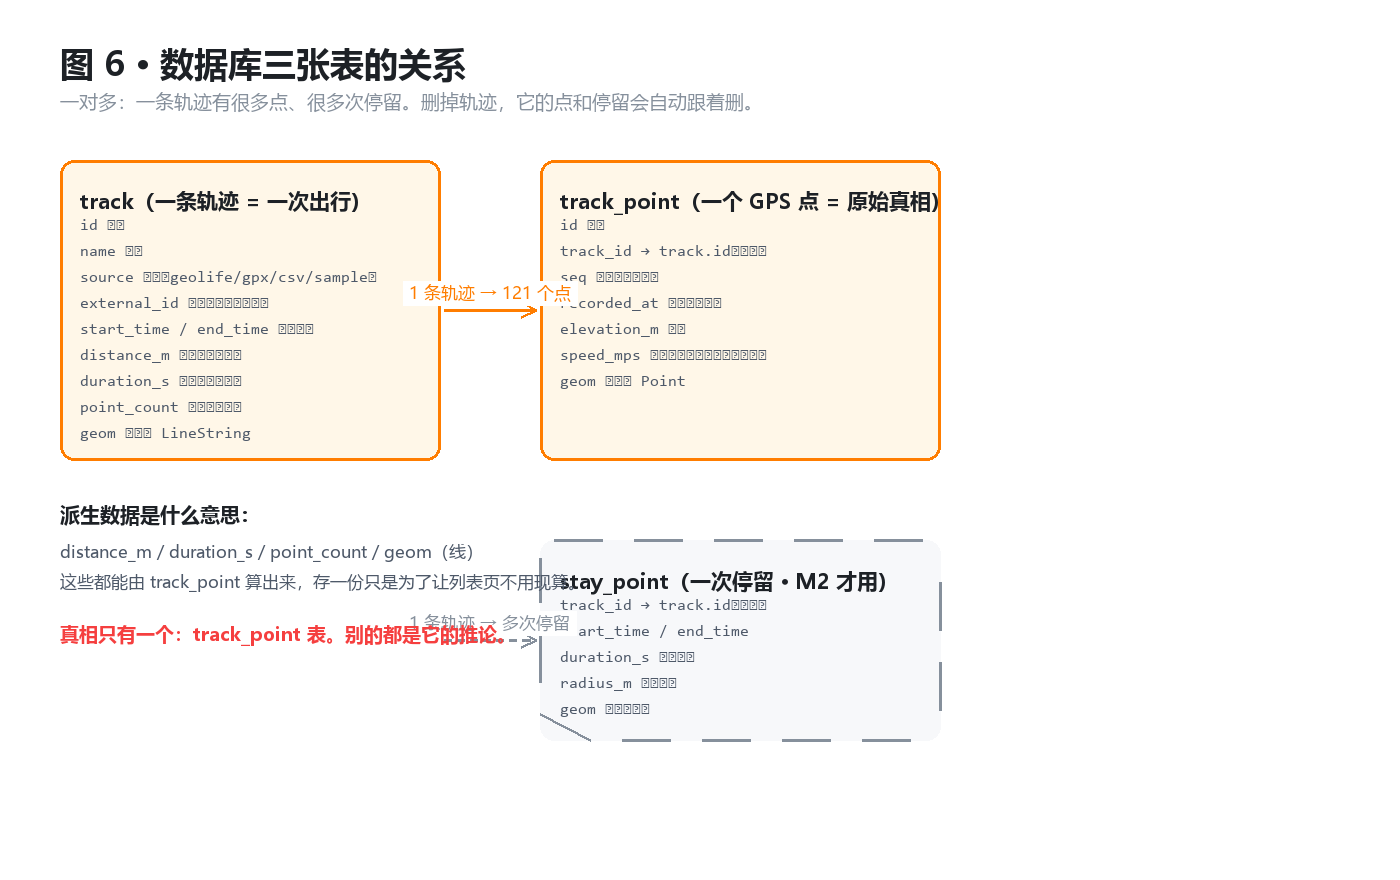
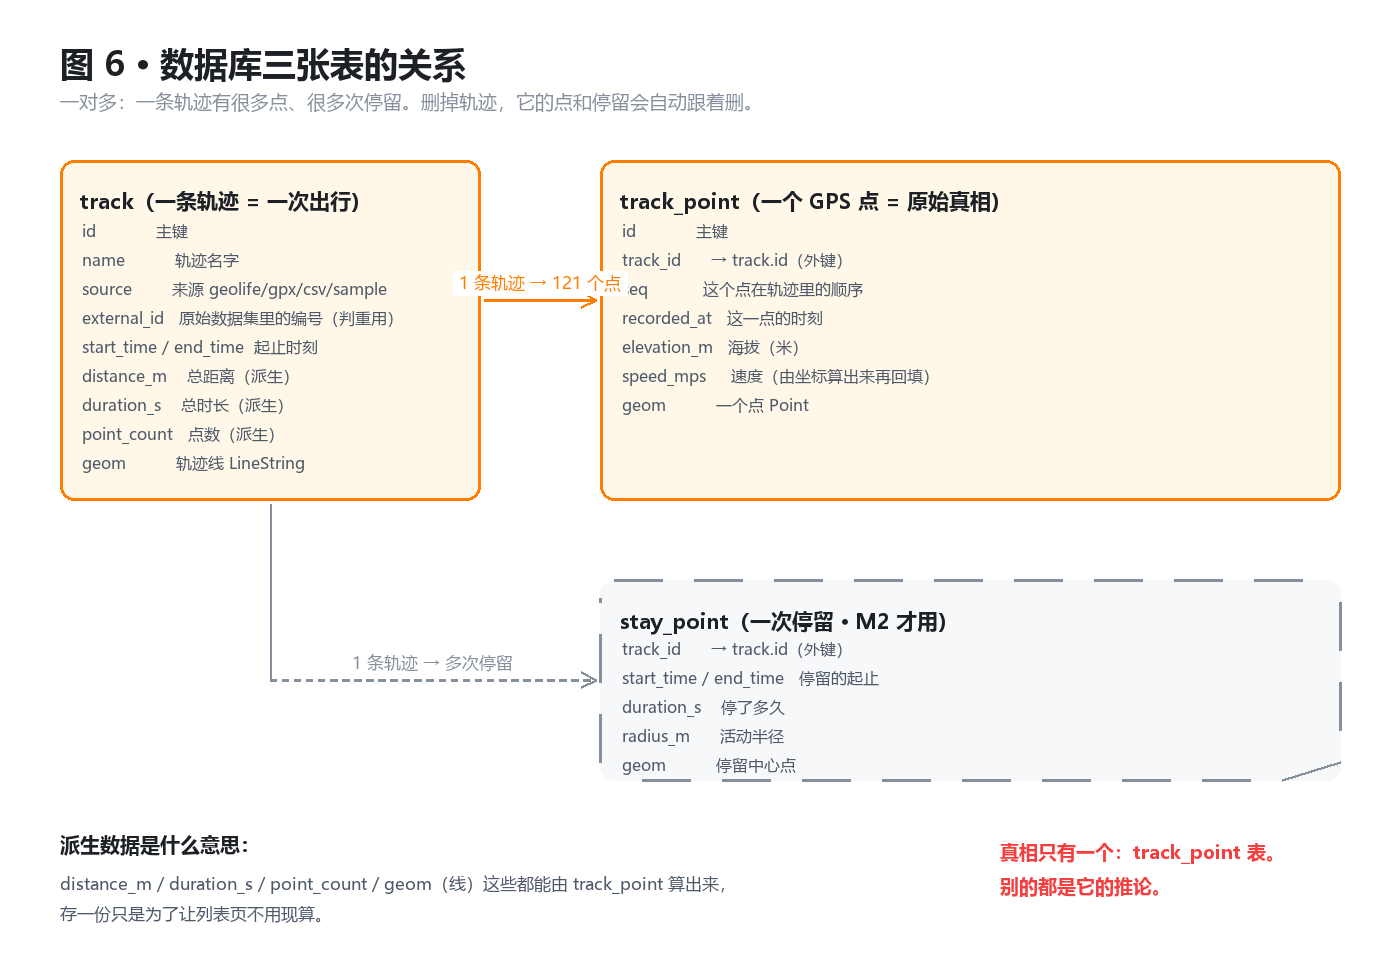
fix(figs): 修复图 6 中文变豆腐块、框重叠、说明文字被箭头穿过
- Consolas 没有中文字形：混中文的行强制用等宽字体会画成方块，text() 里加判断
- 虚线框先画边后填充，导致虚线被底色盖掉，改成先填充再描边
- 图 5：('单行文字') 少写逗号变成字符串，for 会逐字符画成竖排，box() 里加防御

diff --git a/docs/learning/figs/make_figs.py b/docs/learning/figs/make_figs.py
@@ -5,10 +5,11 @@
 （见 global-knowledge：officecli 在 DSH 沙箱写不进 docx）。
 Pillow 直接画成图片再用 python-docx 插进去最稳。
 
-输出：.tmp/figs/fig*.png
+输出：docs/learning/figs/fig*.png
 """
 import math
 import os
+import re
 
 from PIL import Image, ImageDraw, ImageFont
 
@@ -58,7 +59,7 @@ class Fig:
         if isinstance(subs, str):
             subs = (subs,)
         if dash:
-            self._dashed_round_rect(x, y, w, h, radius, border)
+            # 先填底色再画虚线边，否则填充会把先画的虚线盖掉
             self.d.rounded_rectangle([x, y, x + w, y + h], radius=radius, fill=fill)
             self._dashed_round_rect(x, y, w, h, radius, border)
         else:
@@ -81,6 +82,9 @@ class Fig:
         return (x, y, w, h)
 
     def text(self, x, y, s, size=18, bold=False, color=INK, anchor="la", mono=False):
+        # Consolas 没有中文字形，混了中文还强行用等宽字体会画成豆腐块（□□）
+        if mono and re.search(r"[\u4e00-\u9fff]", s):
+            mono = False
         self.d.text((x, y), s, font=f(size, bold, mono), fill=color, anchor=anchor)
 
     def _dashed_round_rect(self, x, y, w, h, r, color, width=3, seg=12, gap=8):
@@ -343,38 +347,55 @@ def fig5():
 
 # --------------------------------------------------------- 图 6 数据库表
 def fig6():
-    g = Fig(880)
+    g = Fig(980)
     g.title("图 6 · 数据库三张表的关系",
             "一对多：一条轨迹有很多点、很多次停留。删掉轨迹，它的点和停留会自动跟着删。")
 
-    g.box(60, 160, 380, 300, "track（一条轨迹 = 一次出行）", (), border=ORANGE, fill=ORANGE_F, ts=21, align="left")
-    for i, s in enumerate(["id 主键", "name 名字", "source 来源（geolife/gpx/csv/sample）",
-                            "external_id 原始编号（判重用）", "start_time / end_time 起止时刻",
-                            "distance_m 总距离（派生）", "duration_s 总时长（派生）",
-                            "point_count 点数（派生）", "geom 轨迹线 LineString"]):
-        g.text(80, 218 + i * 26, s, size=16, color=(0x4E, 0x59, 0x69), mono=True)
+    # 左列：track   右列：track_point / stay_point
+    g.box(60, 160, 420, 340, "track（一条轨迹 = 一次出行）", (),
+          border=ORANGE, fill=ORANGE_F, ts=21, align="left")
+    for i, s in enumerate(["id            主键",
+                            "name          轨迹名字",
+                            "source        来源 geolife/gpx/csv/sample",
+                            "external_id   原始数据集里的编号（判重用）",
+                            "start_time / end_time  起止时刻",
+                            "distance_m    总距离（派生）",
+                            "duration_s    总时长（派生）",
+                            "point_count   点数（派生）",
+                            "geom          轨迹线 LineString"]):
+        g.text(82, 220 + i * 29, s, size=16, color=(0x4E, 0x59, 0x69))
 
-    g.box(540, 160, 400, 300, "track_point（一个 GPS 点 = 原始真相）", (), border=ORANGE, fill=ORANGE_F, ts=21, align="left")
-    for i, s in enumerate(["id 主键", "track_id → track.id（外键）", "seq 在轨迹里的顺序",
-                            "recorded_at 这一点的时刻", "elevation_m 海拔",
-                            "speed_mps 速度（由坐标算出来再回填）",
-                            "geom 一个点 Point"]):
-        g.text(560, 218 + i * 26, s, size=16, color=(0x4E, 0x59, 0x69), mono=True)
+    g.box(600, 160, 740, 340, "track_point（一个 GPS 点 = 原始真相）", (),
+          border=ORANGE, fill=ORANGE_F, ts=21, align="left")
+    for i, s in enumerate(["id            主键",
+                            "track_id      → track.id（外键）",
+                            "seq           这个点在轨迹里的顺序",
+                            "recorded_at   这一点的时刻",
+                            "elevation_m   海拔（米）",
+                            "speed_mps     速度（由坐标算出来再回填）",
+                            "geom          一个点 Point"]):
+        g.text(622, 220 + i * 29, s, size=16, color=(0x4E, 0x59, 0x69))
 
-    g.box(540, 540, 400, 200, "stay_point（一次停留 · M2 才用）", (), border=GRAY, fill=(0xF7, 0xF8, 0xFA), ts=21, align="left", dash=True)
-    for i, s in enumerate(["track_id → track.id（外键）", "start_time / end_time",
-                            "duration_s 停了多久", "radius_m 活动半径", "geom 停留中心点"]):
-        g.text(560, 598 + i * 26, s, size=16, color=(0x4E, 0x59, 0x69), mono=True)
+    g.box(600, 580, 740, 200, "stay_point（一次停留 · M2 才用）", (),
+          border=GRAY, fill=(0xF7, 0xF8, 0xFA), ts=21, align="left", dash=True)
+    for i, s in enumerate(["track_id      → track.id（外键）",
+                            "start_time / end_time   停留的起止",
+                            "duration_s    停了多久",
+                            "radius_m      活动半径",
+                            "geom          停留中心点"]):
+        g.text(622, 638 + i * 29, s, size=16, color=(0x4E, 0x59, 0x69))
 
-    g.arrow(444, 310, 536, 310, "1 条轨迹 → 121 个点", color=ORANGE, label_dy=-18)
-    g.arrow(444, 640, 536, 640, "1 条轨迹 → 多次停留", color=GRAY, label_dy=-18, dashed=True)
+    g.arrow(484, 300, 596, 300, "1 条轨迹 → 121 个点", color=ORANGE, label_dy=-18)
+    # 用折线连到 stay_point；左侧 y=504~680 这段是空的，走这里不压任何文字
+    g.d.line([270, 504, 270, 680], fill=GRAY, width=2)
+    g.arrow(270, 680, 596, 680, "1 条轨迹 → 多次停留", color=GRAY, label_dy=-18, dashed=True)
 
-    g.text(60, 500, "派生数据是什么意思：", size=20, bold=True, color=INK)
-    for i, s in enumerate(["distance_m / duration_s / point_count / geom（线）",
-                            "这些都能由 track_point 算出来，存一份只是为了让列表页不用现算。" ]):
-        g.text(60, 540 + i * 30, s, size=17, color=(0x4E, 0x59, 0x69))
-    g.text(60, 620, "真相只有一个：track_point 表。别的都是它的推论。",
-           size=19, bold=True, color=RED)
+    g.text(60, 830, "派生数据是什么意思：", size=20, bold=True, color=INK)
+    for i, s in enumerate(["distance_m / duration_s / point_count / geom（线）这些都能由 track_point 算出来，",
+                            "存一份只是为了让列表页不用现算。"]):
+        g.text(60, 872 + i * 30, s, size=17, color=(0x4E, 0x59, 0x69))
+    g.text(1000, 838, "真相只有一个：track_point 表。", size=19, bold=True, color=RED)
+    g.text(1000, 872, "别的都是它的推论。", size=19, bold=True, color=RED)
     g.save("fig6-db.png")
 
 
